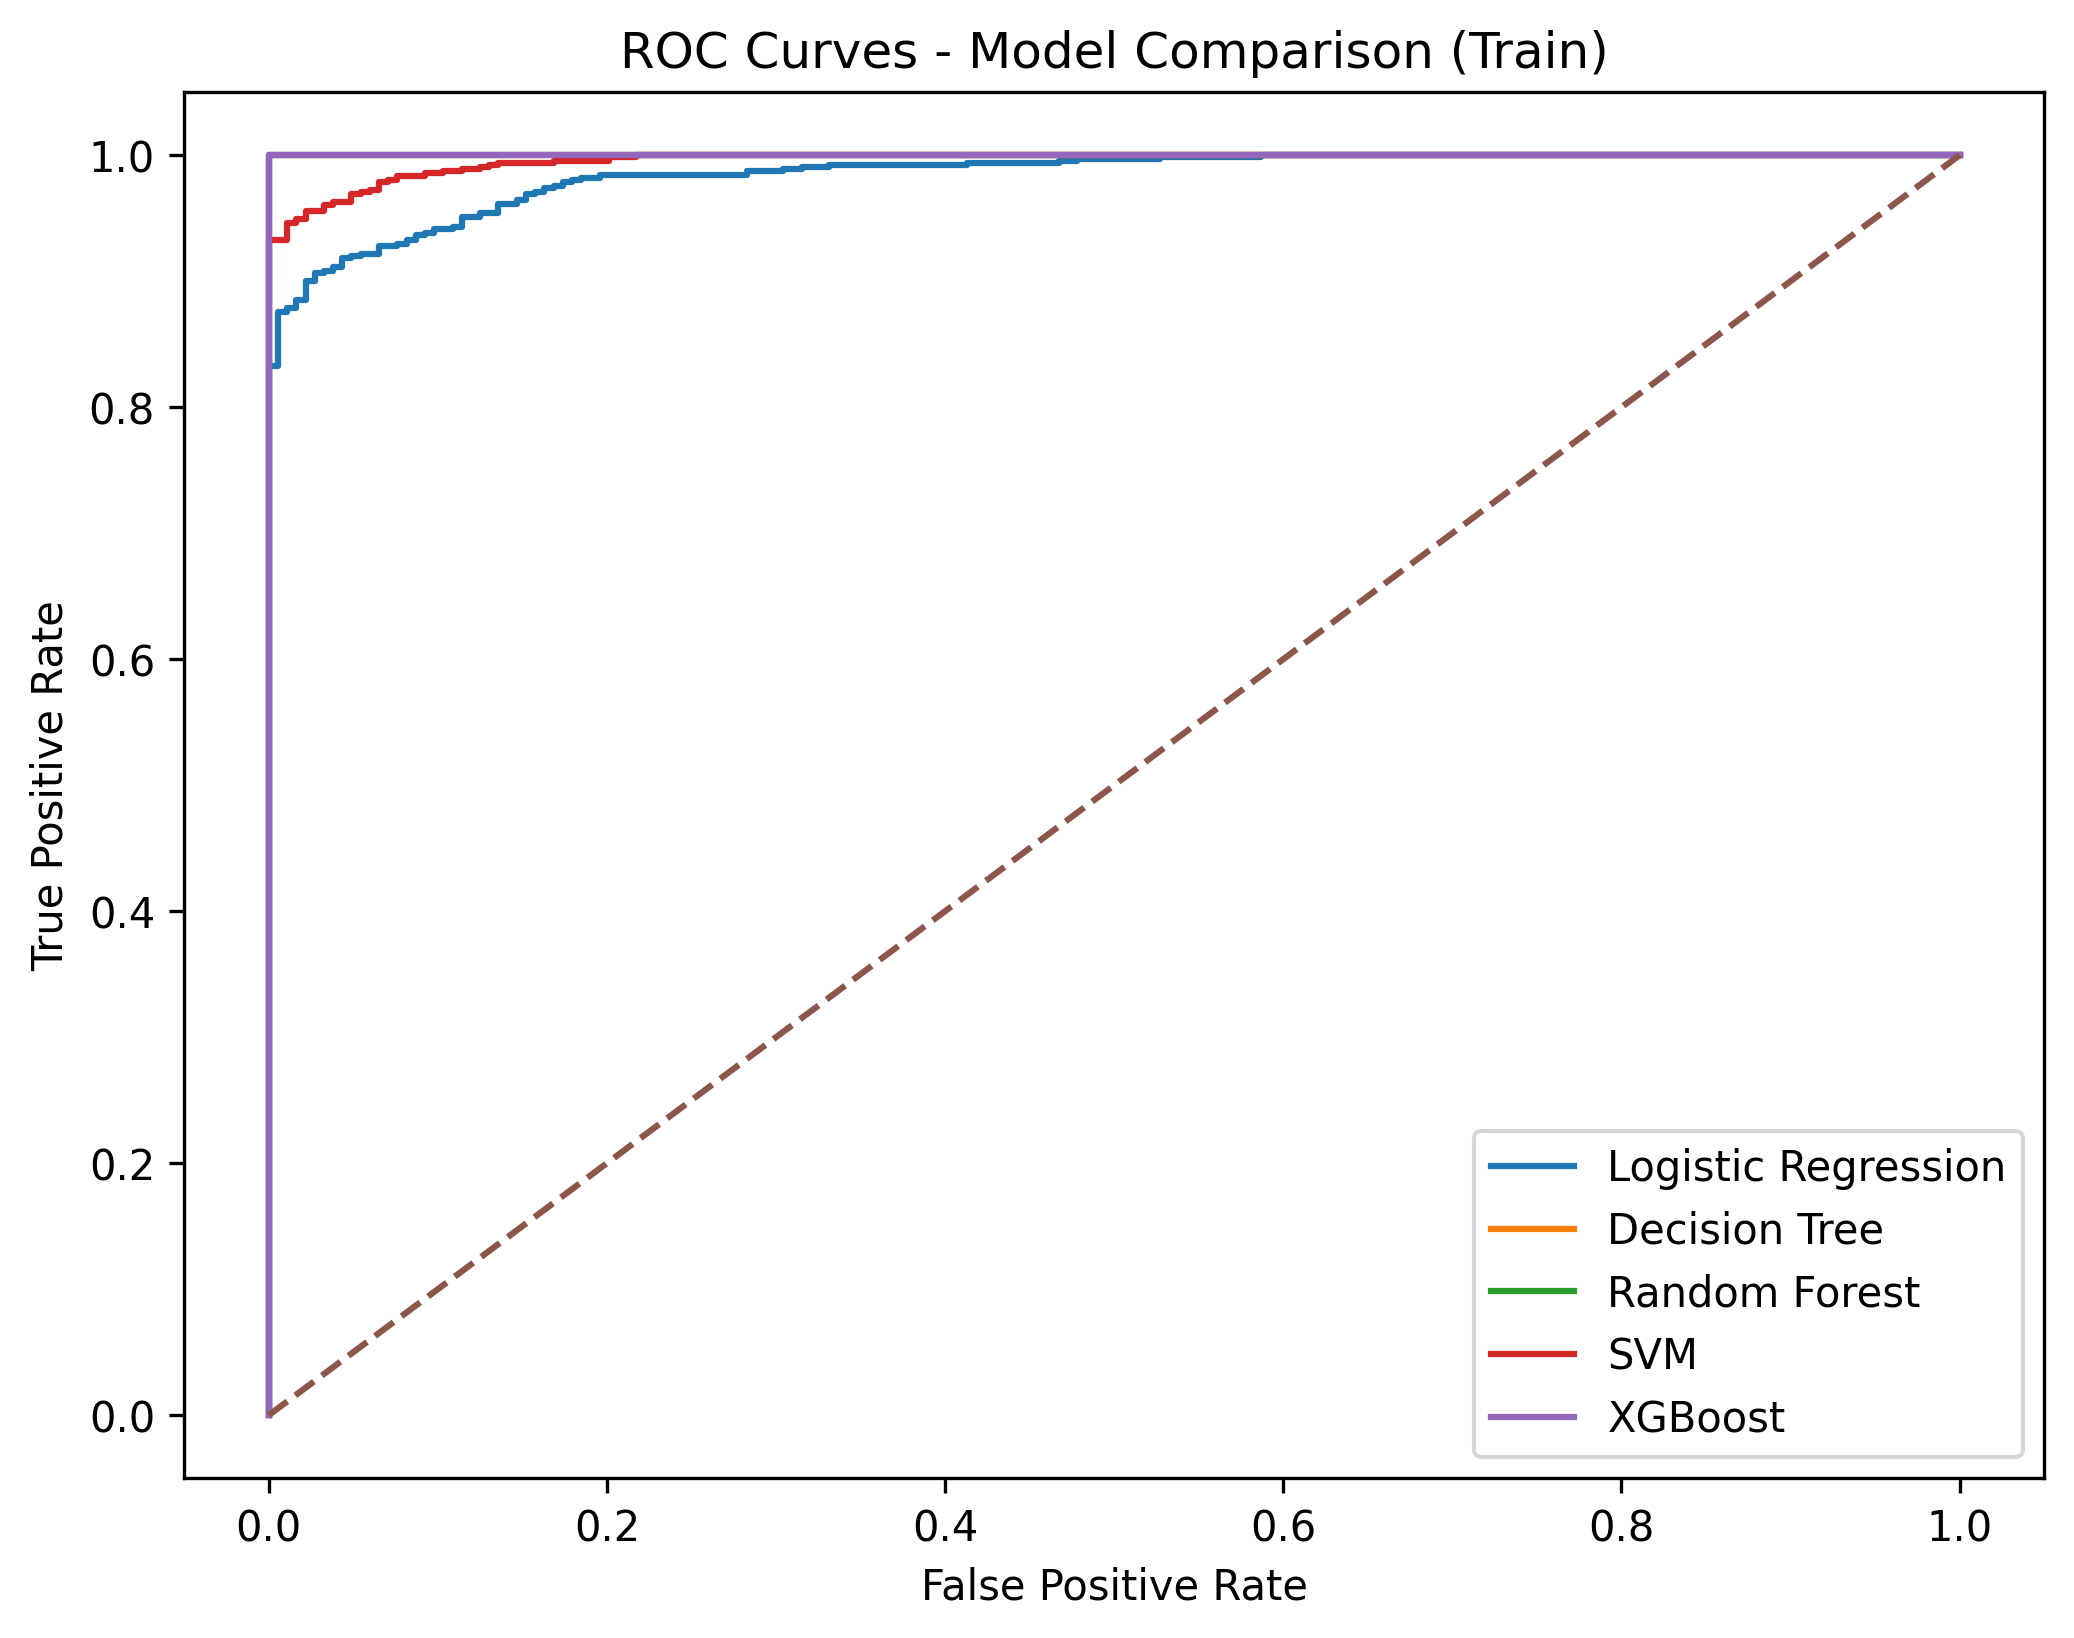
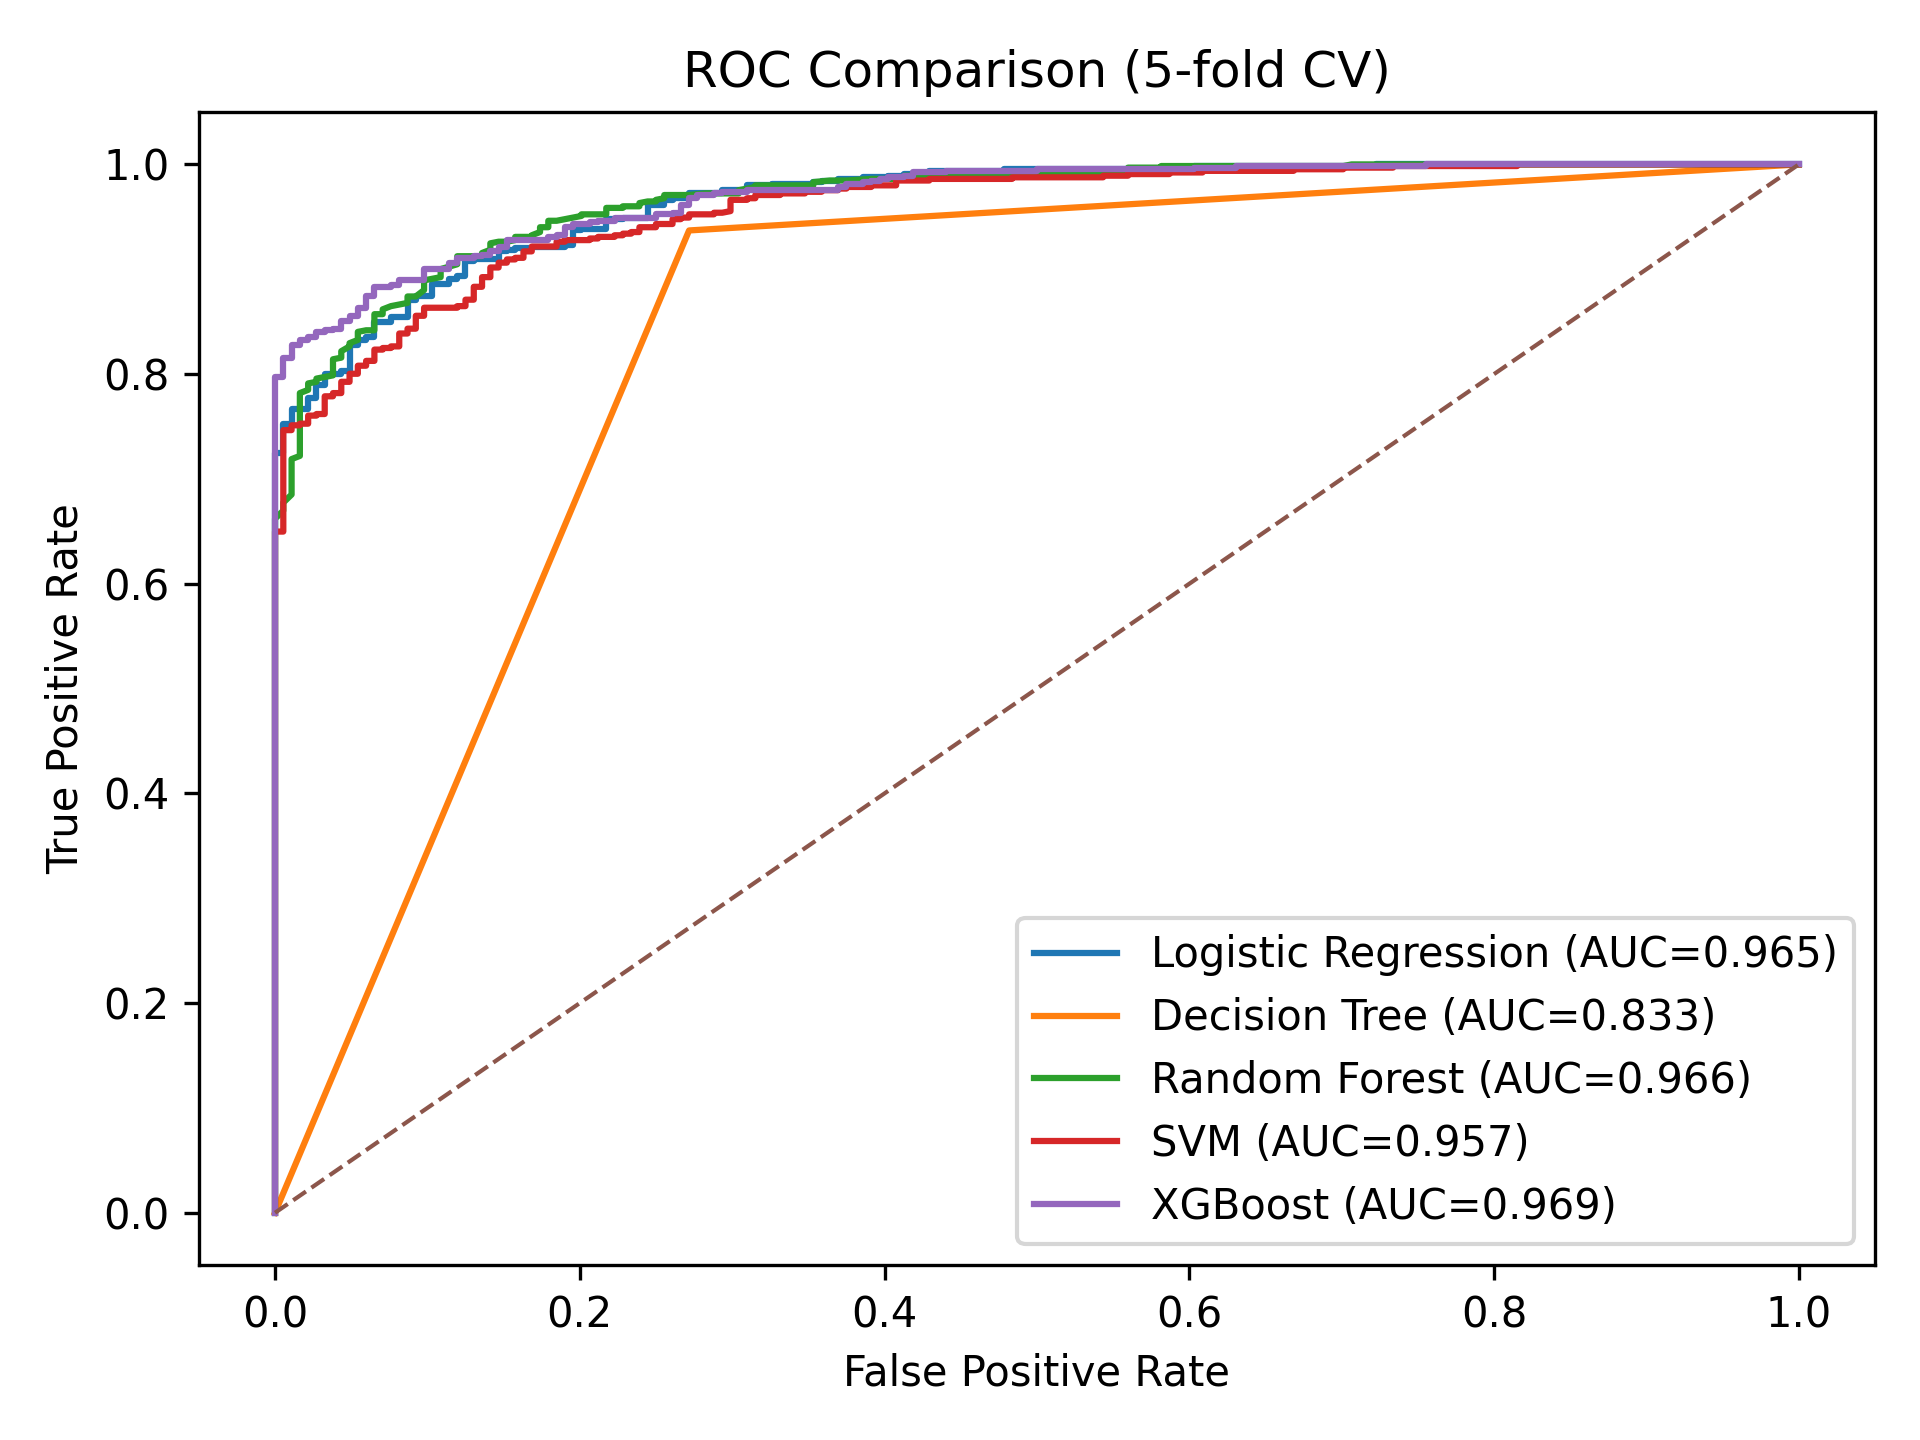
Update benchmark and refresh reports

diff --git a/src/modelling/benchmark.py b/src/modelling/benchmark.py
@@ -1,67 +1,212 @@
-\"\"\"Benchmarking module - compares multiple ML models using 5-fold cross-validation
-on the training data to identify best-performing baseline models.\n\"\"\"\nimport numpy as np\nimport pandas as pd\nimport matplotlib.pyplot as plt\n\nfrom sklearn.model_selection import StratifiedKFold, cross_validate\nfrom sklearn.linear_model import LogisticRegression\nfrom sklearn.tree import DecisionTreeClassifier\nfrom sklearn.ensemble import RandomForestClassifier\nfrom sklearn.svm import SVC\n\nfrom sklearn.metrics import (\n    make_scorer,\n    accuracy_score,\n    f1_score,\n    roc_auc_score,\n    average_precision_score,\n    roc_curve,\n)\n\n# Optional XGBoost - gracefully handle if not installed\ntry:\n    from xgboost import XGBClassifier\n    HAS_XGB = True\nexcept ImportError:\n    HAS_XGB = False\n\nfrom src.common.utils import load_yaml, project_path\n\n\ndef main():\n    \"\"\"Benchmark all models using 5-fold stratified cross-validation:\n    1. Load preprocessed training data\n    2. Initialize multiple model types (LR, DT, RF, SVM, XGB)\n    3. Run cross-validation with multiple scoring metrics\n    4. Generate model comparison table and ROC curve visualization\n    5. Save results to reports directory\n    \"\"\""
-    # Load configuration and data paths
-    cfg = load_yaml("config/experiment_base.yaml")
-    processed = project_path(cfg["paths"]["processed"])
-    reports = project_path(cfg["paths"]["reports"])
+"""
+Benchmarking module - compares multiple ML models using 5-fold cross-validation.
 
-    train_path = processed / "train.csv"
-    df = pd.read_csv(train_path)
+Outputs:
+- reports/tables/model_comparison.csv
+- reports/figures/roc_comparison.png
 
-    if "__target__" not in df.columns:
-        raise ValueError(
-            "Expected a '__target__' column in processed/train.csv. "
-            "Make sure you have run src/data/preprocess.py first."
-        )
+This module is part of the Student Risk Analytics pipeline.
+"""
 
-    # Extract features and target from training data
-    X = df.drop(columns="__target__").values
-    y = df["__target__"].values
+from __future__ import annotations
 
-    # Initialize all candidate models with baseline hyperparameters
-    models = {
-        "Logistic Regression": LogisticRegression(max_iter=2000, class_weight="balanced"),
-        "Decision Tree": DecisionTreeClassifier(random_state=42),
-        "Random Forest": RandomForestClassifier(random_state=42),
-        "SVM": SVC(probability=True, random_state=42),
-    }
+import warnings
+from pathlib import Path
+from typing import Dict, Optional
 
-    if HAS_XGB:
-        models["XGBoost"] = XGBClassifier(eval_metric="logloss", random_state=42)
+import numpy as np
+import pandas as pd
+import matplotlib.pyplot as plt
 
-    # Define scoring metrics: accuracy, F1, ROC-AUC, and Precision-Recall AUC
-    scoring = {
-    "accuracy": "accuracy",
-    "f1": "f1",
-    "roc_auc": "roc_auc",
-    "pr_auc": "average_precision",
-    }
+from sklearn.model_selection import StratifiedKFold, cross_validate, cross_val_predict
+from sklearn.metrics import roc_auc_score, roc_curve
+from sklearn.linear_model import LogisticRegression
+from sklearn.tree import DecisionTreeClassifier
+from sklearn.ensemble import RandomForestClassifier
+from sklearn.svm import SVC
 
-    # Setup 5-fold stratified cross-validation
-    cv = StratifiedKFold(
-        n_splits=5,
-        shuffle=True,
-        random_state=cfg.get("random_seed", 42)
+from src.common.utils import load_yaml, project_path
+
+
+def infer_target_column(df: pd.DataFrame) -> str:
+    """
+    Infer target column name from common conventions used in this project.
+    """
+    candidates = [
+        "__target__",
+        "pass_fail",
+        "target",
+        "label",
+        "at_risk",
+        "risk",
+        "y",
+        "G3",  # common in student performance datasets
+    ]
+    for c in candidates:
+        if c in df.columns:
+            return c
+    raise ValueError(
+        "Could not infer target column. Expected one of: "
+        "__target__/pass_fail/target/label/at_risk/risk/y or G3."
     )
 
-    results = []
+
+def build_models(random_state: int = 42) -> Dict[str, object]:
+    """
+    Build baseline models for comparison.
+    """
+    models: Dict[str, object] = {
+        "Logistic Regression": LogisticRegression(
+            max_iter=2000, n_jobs=None, random_state=random_state
+        ),
+        "Decision Tree": DecisionTreeClassifier(random_state=random_state),
+        "Random Forest": RandomForestClassifier(
+            n_estimators=300,
+            random_state=random_state,
+            n_jobs=-1,
+        ),
+        # probability=True keeps things consistent for ROC/PR utilities
+        "SVM": SVC(kernel="rbf", probability=True, random_state=random_state),
+    }
+
+    # XGBoost is optional but expected in your thesis plan
+    try:
+        from xgboost import XGBClassifier
+
+        models["XGBoost"] = XGBClassifier(
+            n_estimators=400,
+            learning_rate=0.05,
+            max_depth=4,
+            subsample=0.9,
+            colsample_bytree=0.9,
+            reg_lambda=1.0,
+            random_state=random_state,
+            eval_metric="logloss",
+            n_jobs=-1,
+        )
+    except Exception:
+        warnings.warn(
+            "xgboost not available. Skipping XGBoost in benchmark.",
+            RuntimeWarning,
+        )
+
+    return models
+
+
+def load_train_dataframe(cfg: dict) -> pd.DataFrame:
+    """
+    Load processed train.csv using config paths,
+    with a small fallback to interim/cleaned.csv if needed.
+    """
+    processed_dir = project_path(cfg["paths"]["processed"])
+    train_path = processed_dir / "train.csv"
+
+    if train_path.exists():
+        return pd.read_csv(train_path)
+
+    # fallback (should rarely be needed)
+    interim_dir = project_path(cfg["paths"].get("interim", "data/interim"))
+    cleaned_path = interim_dir / "cleaned.csv"
+    if cleaned_path.exists():
+        return pd.read_csv(cleaned_path)
+
+    raise FileNotFoundError(
+        "Could not find processed train.csv or interim cleaned.csv. "
+        "Run: python -m src.data.validate and python -m src.data.preprocess"
+    )
+
+
+def save_roc_comparison(
+    models: Dict[str, object],
+    X: pd.DataFrame,
+    y: pd.Series,
+    reports_dir: Path,
+    cv: StratifiedKFold,
+) -> None:
+    """
+    Create ROC comparison plot using cross-validated predictions.
+    """
+    fig_dir = reports_dir / "figures"
+    fig_dir.mkdir(parents=True, exist_ok=True)
+    ROC_PLOT = fig_dir / "roc_comparison.png"
+
+    plt.figure()
+
+    for name, model in models.items():
+        # Prefer predict_proba for consistency
+        method = "predict_proba"
+        try:
+            y_scores = cross_val_predict(
+                model, X, y, cv=cv, method=method, n_jobs=-1
+            )[:, 1]
+        except Exception:
+            # fallback to decision_function if needed
+            method = "decision_function"
+            y_scores = cross_val_predict(
+                model, X, y, cv=cv, method=method, n_jobs=-1
+            )
+            # decision scores may be unbounded - roc_curve handles this fine
+
+        auc = roc_auc_score(y, y_scores)
+        fpr, tpr, _ = roc_curve(y, y_scores)
+        plt.plot(fpr, tpr, label=f"{name} (AUC={auc:.3f})")
+
+    plt.plot([0, 1], [0, 1], linestyle="--", linewidth=1)
+    plt.xlabel("False Positive Rate")
+    plt.ylabel("True Positive Rate")
+    plt.title("ROC Comparison (5-fold CV)")
+    plt.legend(loc="lower right")
+    plt.tight_layout()
+    plt.savefig(ROC_PLOT, dpi=300)
+    plt.close()
+
+
+def main():
+    cfg = load_yaml("config/experiment_base.yaml")
+
+    reports_dir = project_path(cfg["paths"]["reports"])
+    tables_dir = reports_dir / "tables"
+    tables_dir.mkdir(parents=True, exist_ok=True)
+
+    df = load_train_dataframe(cfg)
+
+    target_col = infer_target_column(df)
+    X = df.drop(columns=[target_col])
+    y = df[target_col].astype(int)
+
+    random_state = int(cfg.get("random_state", 42))
+    models = build_models(random_state=random_state)
+
+    cv = StratifiedKFold(n_splits=5, shuffle=True, random_state=random_state)
+
+    scoring = {
+        "acc": "accuracy",
+        "f1": "f1",
+        "roc_auc": "roc_auc",
+        "pr_auc": "average_precision",
+    }
 
     print("Running 5-fold CV benchmark for all models...\n")
 
-    # Train and evaluate each model using cross-validation
+    rows = []
     for name, model in models.items():
-        # Perform cross-validation and collect scores for all metrics
-        scores = cross_validate(model, X, y, cv=cv, scoring=scoring)
-
-        # Calculate mean scores across folds
+        scores = cross_validate(
+            model,
+            X,
+            y,
+            cv=cv,
+            scoring=scoring,
+            n_jobs=-1,
+            error_score="raise",
+        )
         row = {
-    "Model": name,
-    "accuracy": float(np.mean(scores["test_accuracy"])),
-    "f1": float(np.mean(scores["test_f1"])),
-    "roc_auc": float(np.mean(scores["test_roc_auc"])),
-    "pr_auc": float(np.mean(scores["test_pr_auc"])),
+            "model": name,
+            "accuracy": float(np.mean(scores["test_acc"])),
+            "f1": float(np.mean(scores["test_f1"])),
+            "roc_auc": float(np.mean(scores["test_roc_auc"])),
+            "pr_auc": float(np.mean(scores["test_pr_auc"])),
         }
-        results.append(row)
+        rows.append(row)
 
         print(
             f"[{name}] "
@@ -71,47 +216,18 @@ on the training data to identify best-performing baseline models.\n\"\"\"\nimpor
             f"pr_auc={row['pr_auc']:.3f}"
         )
 
-    # Create output directories for tables and figures
-    tables_dir = reports / "tables"
-    figures_dir = reports / "figures"
-    tables_dir.mkdir(parents=True, exist_ok=True)
-    figures_dir.mkdir(parents=True, exist_ok=True)
-
-    # Sort results by PR-AUC (primary metric) and save comparison table
-    df_results = (
-        pd.DataFrame(results)
-        .set_index("Model")
-        .sort_values("pr_auc", ascending=False)
+    results = pd.DataFrame(rows).sort_values(
+        by=["pr_auc", "roc_auc"], ascending=False
     )
-    comparison_path = tables_dir / "model_comparison.csv"
-    df_results.to_csv(comparison_path)
 
-    # Generate ROC curves for visual comparison (fit on full training data)
-    plt.figure(figsize=(8, 6))
+    out_csv = tables_dir / "model_comparison.csv"
+    results.to_csv(out_csv, index=False)
 
-    for name, model in models.items():
-        # Train each model on full training data for visualization
-        model.fit(X, y)
-        y_prob = model.predict_proba(X)[:, 1]
-        # Calculate ROC curve coordinates
-        fpr, tpr, _ = roc_curve(y, y_prob)
-        plt.plot(fpr, tpr, label=name)
-
-    # Plot random classifier baseline
-    plt.plot([0, 1], [0, 1], linestyle="--")
-    plt.title("ROC Curves - Model Comparison (Train)")
-    plt.xlabel("False Positive Rate")
-    plt.ylabel("True Positive Rate")
-    plt.legend()
-
-    # Save ROC comparison plot
-    roc_plot_path = figures_dir / "roc_comparison.png"
-    plt.savefig(roc_plot_path, dpi=300, bbox_inches="tight")
-    plt.close()
+    save_roc_comparison(models, X, y, reports_dir, cv)
 
     print("\n✅ Benchmark complete.")
-    print("✅ Model comparison table:", comparison_path)
-    print("✅ ROC comparison plot:   ", roc_plot_path)
+    print(f"✅ Model comparison table: {out_csv}")
+    print(f"✅ ROC comparison plot:    {reports_dir / 'figures' / 'roc_comparison.png'}")
 
 
 if __name__ == "__main__":
